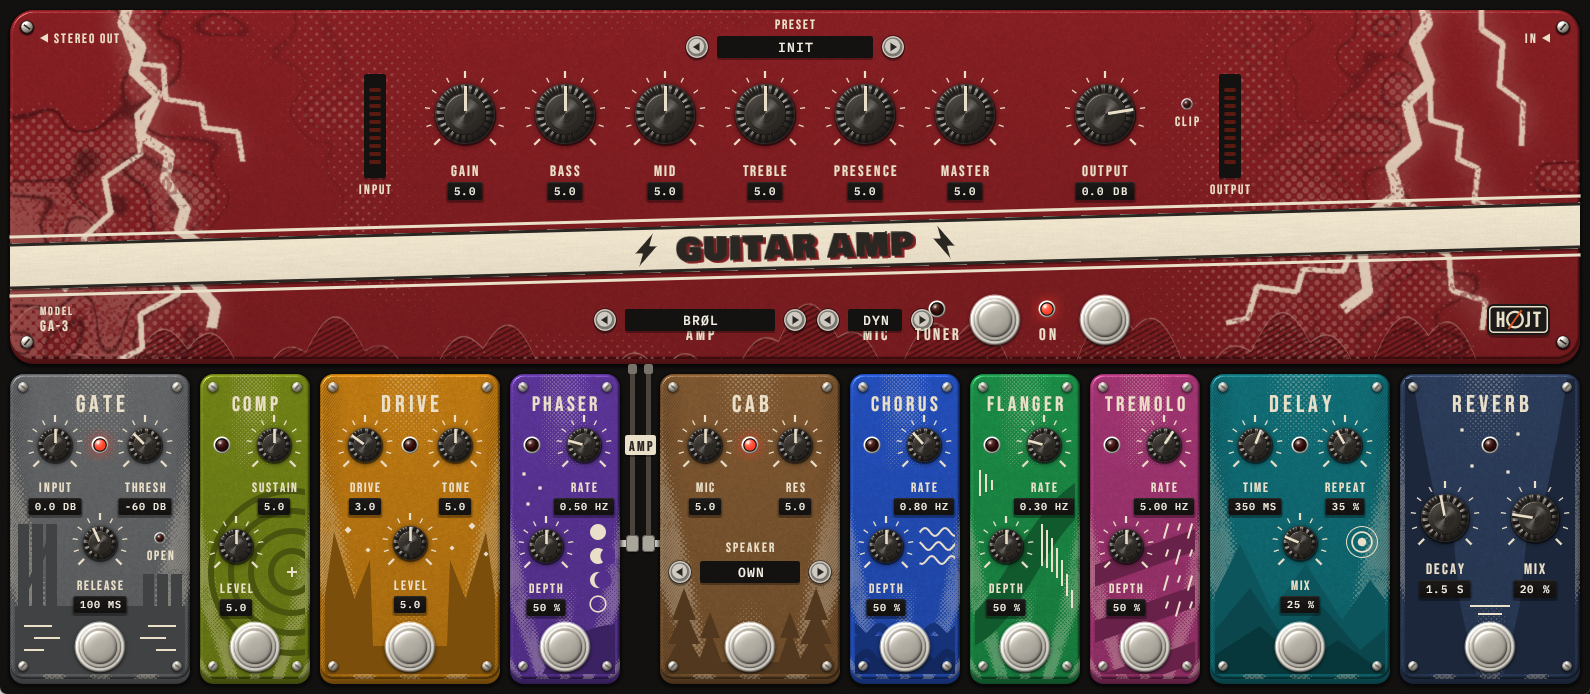
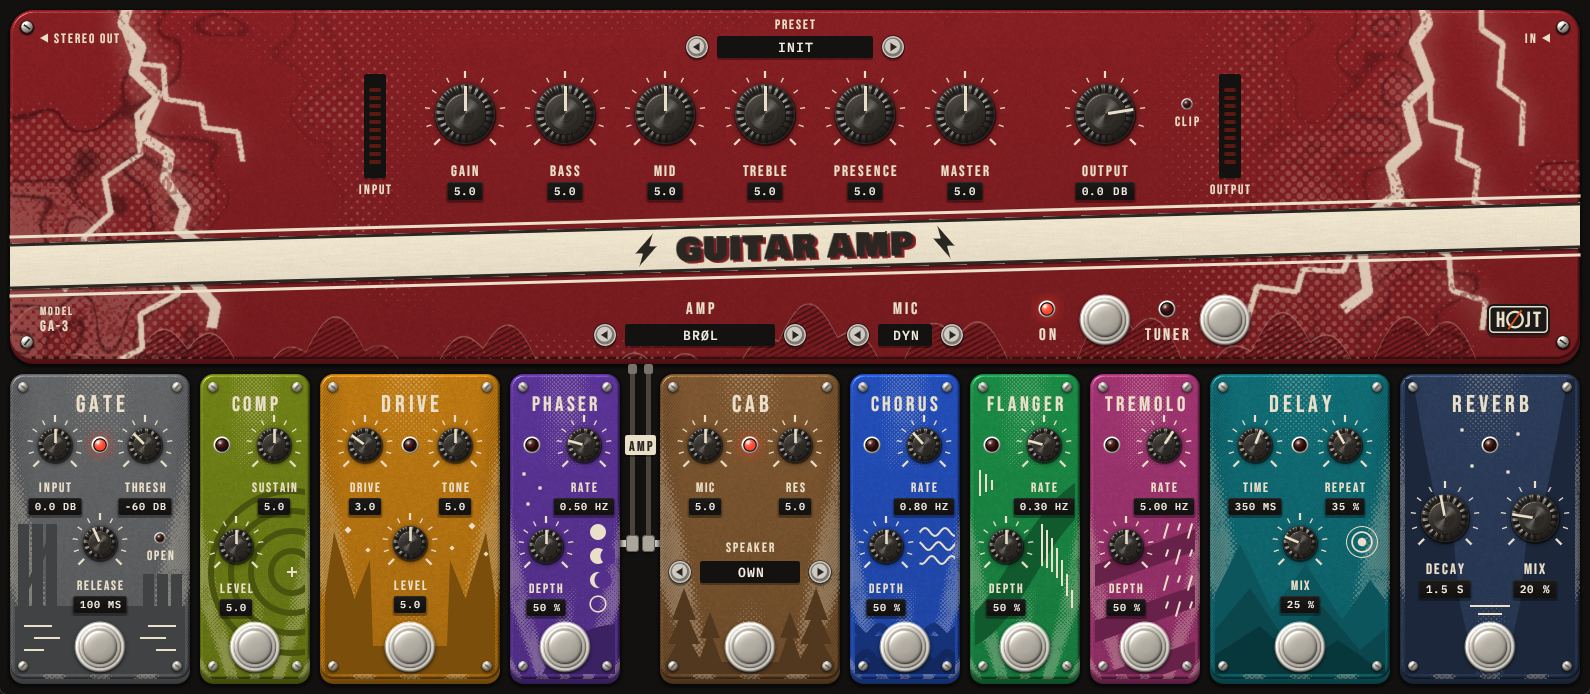
Release 0.2.1
The Guitar Amp's Amp and Mic captions sit above their displays and the Tuner switch is clear
of the Mic display; the Bass Synth's model number is no longer printed over by the art. Their
screenshots are retaken with scripts/screenshots.ps1.

install.ps1 and screenshots.ps1 now take every plugin they are given: a plain [string[]]
parameter took only the first name and dropped the rest without a word.

Changed region(s): [[0.3698, 0.4236, 0.6472, 0.5144], [0.7088, 0.4236, 0.8013, 0.5144], [0.0, 0.9986, 0.0308, 1.0]]

diff --git a/CHANGELOG.md b/CHANGELOG.md
@@ -3,7 +3,7 @@
 Each release has a `## <version>` section here. The release workflow uses it as the text of the
 GitHub release.
 
-## Unreleased
+## 0.2.1
 
 ### Guitar Amp
 
